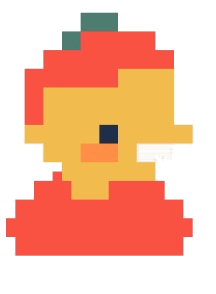
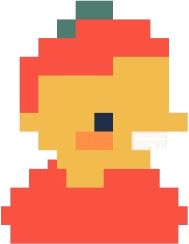
Pito pa mani

diff --git a/src/Game.py b/src/Game.py
@@ -30,14 +30,12 @@ class Game:
         self.setSprites()
         self.frame = 0
         while flag:
-            self.drawSprites()
             self.collision()
-            self.recargarPantalla()
-            self.movimientoEnemy()
+            self.drawSprites()
             pygame.time.delay(10)
             pygame.display.flip()
             pygame.key.set_repeat(60, 30)
-            
+            self.enemy.move(self.screen1)
             if(self.player.isJumping and self.player.y >= 210):
                 self.player.y -= 25
                 self.frame = self.player.jump(self.screen1, self.frame)
@@ -58,21 +56,14 @@ class Game:
 
     def setSprites(self):
         self.background = Sprite("./src/media/fondo-lejano.png")
-        self.highGrass = Sprite("./src/media/pasto-alto.png")
         self.arbol1=Sprite("./src/media/arbol1.png")
+        self.highGrass = Sprite("./src/media/pasto-alto.png")
         self.background.draw(self.screen1, 0, 0)
-       # self.arbol1.draw(self.screen1,180,50)
-        self.enemy.draw(self.screen1, 800, 310)
+        #self.arbol1.draw(self.screen1,180,50)
         self.player.draw(self.screen1, 180, 310)
+        self.enemy.draw(self.screen1, 800, 330)
         self.highGrass.image = pygame.transform.scale(self.highGrass.image, (1600,500))
-        #self.highGrass.draw(self.screen1, 0, 0)
-
-    def movimientoEnemy(self):
-        Sprite.__init__(self, "./src/media/movimientosEnemigos/enemigo.png")
-        self.rect = self.image.get_rect()
-        self.enemy.move(self.screen1)
-        self.speedx=10
-        
+        # self.highGrass.draw(self.screen1, 0, 0)
         
     def collision(self):
         x = 5
@@ -88,31 +79,20 @@ class Game:
             print("Colision")
         else:
             print("No colision")
-
         
-        
-
-    def recargarPantalla(self):
-        #para hacer que el fondo se "mueva"
-        
-        x_relativa=self.x % self.highGrass.image.get_rect().width
-        #self.screen1.blit(self.background.image,(x_relativa-self.background.image.get_rect().width,0))
-        self.screen1.blit(self.highGrass.image,(x_relativa-self.highGrass.image.get_rect().width,0))
-        
-
-        if x_relativa-600:
-         #   self.screen1.blit(self.background.image,(x_relativa,0))
-            self.screen1.blit(self.highGrass.image,(x_relativa,0))
-        self.x-=3
-        pygame.display.update()
     
     def drawSprites(self):
-        self.background.draw(self.screen1, self.background.x, self.background.y)
+        x_relativa=self.x % self.highGrass.image.get_rect().width
+        self.screen1.blit(self.background.image,(x_relativa-self.background.image.get_rect().width,0))
+        self.screen1.blit(self.highGrass.image,(x_relativa-self.highGrass.image.get_rect().width,0))
+        if x_relativa-600:
+            self.screen1.blit(self.background.image,(x_relativa,0))
+            self.screen1.blit(self.highGrass.image,(x_relativa,0))
         self.arbol1.draw(self.screen1, self.arbol1.x, self.arbol1.y)
         self.enemy.draw(self.screen1, self.enemy.x, self.enemy.y)
         self.player.draw(self.screen1, self.player.x, self.player.y)
         self.highGrass.draw(self.screen1, self.highGrass.x, self.highGrass.y)
-        #self.highGrass.draw(self.screen1, self.highGrass.x, self.highGrass.y)
+        self.highGrass.draw(self.screen1, self.highGrass.x, self.highGrass.y)
     def moveControls(self, event):
         if event.key == pygame.K_d:
 

diff --git a/src/Player.py b/src/Player.py
@@ -130,15 +130,6 @@ class Player(Sprite):
             ],
         ]
         self.direction = 0
-        # self.frames = [
-        #     [
-        #         pygame.Rect((0,  0, 60,  90)),
-        #         pygame.Rect((90, 0, 90, 90)),
-        #         pygame.Rect((0, 90, 60, 90)),
-        #         pygame.Rect((90, 90,  90 , 90 ))
-        #     ]
-        # ]
-
     def moveLeft(self, window, frame):
         self.image = self.idleSprite[1]
         self.draw(window, self.x - self.speedx, self.y)

diff --git a/src/Enemy.py b/src/Enemy.py
@@ -5,8 +5,8 @@ class Enemy (Sprite):
     def __init__(self):
         Sprite.__init__(self, "./src/media/movimientosEnemigos/enemigo.png")
         self.speedy = 0
-        self.speedx = 5
-        self.image = pygame.transform.scale(self.image, (400, 150))
+        self.speedx = 15
+        self.image = pygame.transform.scale(self.image, (208, 152))
     
     def move(self, window):
         
